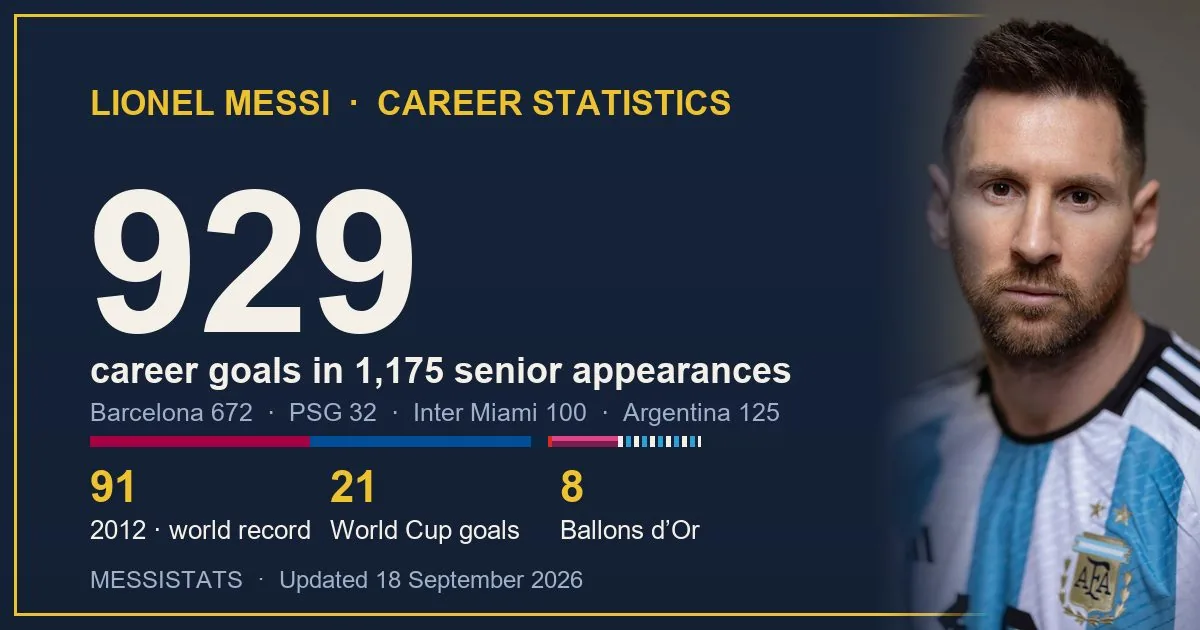
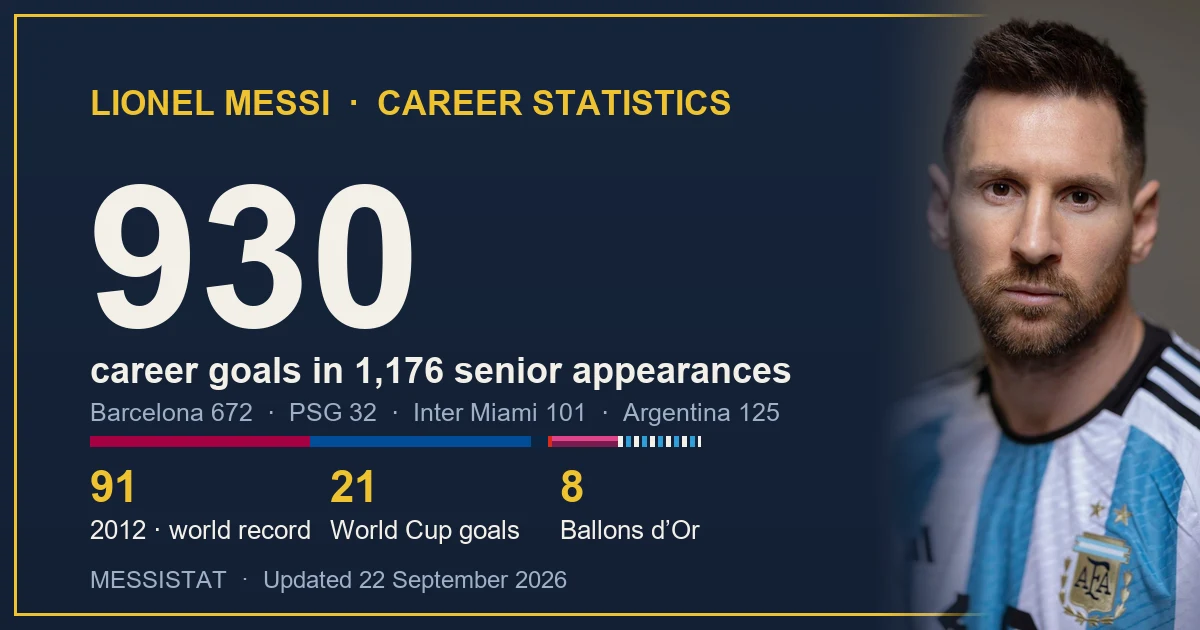
feat(og): make OG social preview image dynamically auto-update with 930 goals across build and CI pipelines

diff --git a/index.html b/index.html
@@ -80,18 +80,18 @@
 <script type="application/ld+json">
 {"@context":"https://schema.org","@graph":[
 {"@type":"WebSite","@id":"https://www.messistat.com/#website","name":"MessiStat","alternateName":["Messi Stats","Messi Stat","Lionel Messi Stats","messistat.com","MessiStats"],"url":"https://www.messistat.com/","inLanguage":"en","description":"The definitive Lionel Messi career statistics database: 930 goals, 385+ assists in 1,176 senior games, 46 trophies, 8 Ballons d'Or.","publisher":{"@id":"https://www.messistat.com/#org"}},
-{"@type":"SportsPerson","@id":"https://www.messistat.com/#messi","name":"Lionel Messi","alternateName":"Lionel Andrés Messi","description":"Argentine footballer with 930 goals in 1,176 senior appearances for club and country (672 Barcelona, 32 PSG, 100 Inter Miami, 125 Argentina), 46 team trophies and a record 8 Ballons d'Or (figures as of 18 September 2026).","nationality":"Argentina","birthDate":"1987-06-24","birthPlace":{"@type":"Place","name":"Rosario, Argentina"},"sport":"Soccer","sameAs":["https://www.wikidata.org/wiki/Q615","https://messi.com","https://en.wikipedia.org/wiki/Lionel_Messi","https://www.instagram.com/leomessi","https://www.facebook.com/leomessi","https://www.intermiamicf.com/players/lionel-messi","https://www.transfermarkt.com/lionel-messi/profil/spieler/28003"],"url":"https://www.messistat.com/en","image":"https://www.messistat.com/img/og-messi.jpg","mainEntityOfPage":{"@id":"https://www.messistat.com/en#webpage"},"award":["Ballon d'Or 2009","Ballon d'Or 2010","Ballon d'Or 2011","Ballon d'Or 2012","Ballon d'Or 2015","Ballon d'Or 2019","Ballon d'Or 2021","Ballon d'Or 2023","FIFA World Cup 2022"]},
+{"@type":"SportsPerson","@id":"https://www.messistat.com/#messi","name":"Lionel Messi","alternateName":"Lionel Andrés Messi","description":"Argentine footballer with 930 goals in 1,176 senior appearances for club and country (672 Barcelona, 32 PSG, 101 Inter Miami, 125 Argentina), 46 team trophies and a record 8 Ballons d'Or (figures as of 22 September 2026).","nationality":"Argentina","birthDate":"1987-06-24","birthPlace":{"@type":"Place","name":"Rosario, Argentina"},"sport":"Soccer","sameAs":["https://www.wikidata.org/wiki/Q615","https://messi.com","https://en.wikipedia.org/wiki/Lionel_Messi","https://www.instagram.com/leomessi","https://www.facebook.com/leomessi","https://www.intermiamicf.com/players/lionel-messi","https://www.transfermarkt.com/lionel-messi/profil/spieler/28003"],"url":"https://www.messistat.com/en","image":"https://www.messistat.com/img/og-messi.jpg","mainEntityOfPage":{"@id":"https://www.messistat.com/en#webpage"},"award":["Ballon d'Or 2009","Ballon d'Or 2010","Ballon d'Or 2011","Ballon d'Or 2012","Ballon d'Or 2015","Ballon d'Or 2019","Ballon d'Or 2021","Ballon d'Or 2023","FIFA World Cup 2022"]},
 {"@type":"Organization","@id":"https://www.messistat.com/#org","name":"MessiStat","alternateName":["messistat.com","MessiStats"],"url":"https://www.messistat.com/","logo":{"@type":"ImageObject","url":"https://www.messistat.com/img/logo.png","width":512,"height":512},"image":"https://www.messistat.com/img/logo.png"},
-{"@type":"WebPage","@id":"https://www.messistat.com/en#webpage","url":"https://www.messistat.com/en","name":"Messi Stats | MessiStat","description":"Lionel Messi stats: 930 career goals, 385+ assists in 1,176 senior games (Barcelona, PSG, Inter Miami & Argentina). 46 trophies, 8 Ballons d'Or, free kicks, hat-tricks & live 2026 tracker.","dateModified":"2026-09-21","inLanguage":"en","publisher":{"@id":"https://www.messistat.com/#org"},"speakable":{"@type":"SpeakableSpecification","cssSelector":["#messi-total-goals","#messi-goal-today-status","#kpis","#bday-hero","#faq","#on-this-day"]},"mainEntity":{"@id":"https://www.messistat.com/#messi"}},
-{"@type":"Dataset","@id":"https://www.messistat.com/#dataset-total-goals","name":"Lionel Messi Total Career Goals Official Dataset","description":"Primary, match-verified statistical record of Lionel Messi's 930 career goals and 1,176 senior appearances across FC Barcelona, Argentina, Paris Saint-Germain, and Inter Miami CF.","url":"https://www.messistat.com/en","creator":{"@id":"https://www.messistat.com/#org"},"dateModified":"2026-09-18","temporalCoverage":"2004-10-16/2026-09-18","keywords":["messi stat","messi stats","lionel messi stats","messi goal today","did messi score today","messi goals today","messi career stats","messi total goals","lionel messi career goals","how many goals has messi scored","messi all time goals","messi vs ronaldo goals","messi assists","messi records"],"variableMeasured":["Goals","Appearances","Assists","Hat-tricks","Free kicks","Penalties"]},
+{"@type":"WebPage","@id":"https://www.messistat.com/en#webpage","url":"https://www.messistat.com/en","name":"Messi Stats | MessiStat","description":"Lionel Messi stats: 930 career goals, 385+ assists in 1,176 senior games (Barcelona, PSG, Inter Miami & Argentina). 46 trophies, 8 Ballons d'Or, free kicks, hat-tricks & live 2026 tracker.","dateModified":"2026-09-22","inLanguage":"en","publisher":{"@id":"https://www.messistat.com/#org"},"speakable":{"@type":"SpeakableSpecification","cssSelector":["#messi-total-goals","#messi-goal-today-status","#kpis","#bday-hero","#faq","#on-this-day"]},"mainEntity":{"@id":"https://www.messistat.com/#messi"}},
+{"@type":"Dataset","@id":"https://www.messistat.com/#dataset-total-goals","name":"Lionel Messi Total Career Goals Official Dataset","description":"Primary, match-verified statistical record of Lionel Messi's 930 career goals and 1,176 senior appearances across FC Barcelona, Argentina, Paris Saint-Germain, and Inter Miami CF.","url":"https://www.messistat.com/en","creator":{"@id":"https://www.messistat.com/#org"},"dateModified":"2026-09-22","temporalCoverage":"2004-10-16/2026-09-22","keywords":["messi stat","messi stats","lionel messi stats","messi goal today","did messi score today","messi goals today","messi career stats","messi total goals","lionel messi career goals","how many goals has messi scored","messi all time goals","messi vs ronaldo goals","messi assists","messi records"],"variableMeasured":["Goals","Appearances","Assists","Hat-tricks","Free kicks","Penalties"]},
 {"@type":"FAQPage","@id":"https://www.messistat.com/en#faq","mainEntity":[
-{"@type":"Question","name":"What are Lionel Messi's career stats?","acceptedAnswer":{"@type":"Answer","text":"Across his senior career (2004–2026), Lionel Messi's stats stand at 930 official goals and 385+ assists in 1,176 matches (0.79 goals per game). His breakdown includes 672 goals for FC Barcelona, 125 for Argentina, 100 for Inter Miami CF, and 32 for PSG, alongside an all-time record 46 team trophies and 8 Ballons d'Or."}},
-{"@type":"Question","name":"Did Lionel Messi score today?","acceptedAnswer":{"@type":"Answer","text":"In his most recent official match on 20 September 2026, Lionel Messi scored Goal #930 (his 100th for Inter Miami) with a 12th-minute header in a 2–0 win vs San Diego FC in the MLS Regular Season. Check our live matchday tracker on /en/latest-goal for real-time goal and score updates whenever Inter Miami or Argentina plays."}},
+{"@type":"Question","name":"What are Lionel Messi's career stats?","acceptedAnswer":{"@type":"Answer","text":"Across his senior career (2004–2026), Lionel Messi's stats stand at 930 official goals and 385+ assists in 1,176 matches (0.79 goals per game). His breakdown includes 672 goals for FC Barcelona, 125 for Argentina, 101 for Inter Miami CF, and 32 for PSG, alongside an all-time record 46 team trophies and 8 Ballons d'Or."}},
+{"@type":"Question","name":"Did Lionel Messi score today?","acceptedAnswer":{"@type":"Answer","text":"In his most recent official match on 20 September 2026, Lionel Messi scored Goal #930 (his 101st for Inter Miami) with a 24th-minute direct free kick in a 2–2 draw vs San Diego FC in the MLS Regular Season. Check our live matchday tracker on /en/latest-goal for real-time goal and score updates whenever Inter Miami or Argentina plays."}},
 
-{"@type":"Question","name":"How many total career goals has Lionel Messi scored?","acceptedAnswer":{"@type":"Answer","text":"As of September 2026, Lionel Messi has scored 930 official senior career goals in 1,176 matches (0.79 goals per game). His breakdown includes 672 goals for FC Barcelona, 125 for Argentina, 100 for Inter Miami CF, and 32 for Paris Saint-Germain."}},
+{"@type":"Question","name":"How many total career goals has Lionel Messi scored?","acceptedAnswer":{"@type":"Answer","text":"As of September 2026, Lionel Messi has scored 930 official senior career goals in 1,176 matches (0.79 goals per game). His breakdown includes 672 goals for FC Barcelona, 125 for Argentina, 101 for Inter Miami CF, and 32 for Paris Saint-Germain."}},
 {"@type":"Question","name":"How many career assists does Lionel Messi have?","acceptedAnswer":{"@type":"Answer","text":"Lionel Messi has recorded over 385 official senior career assists (over 300 for FC Barcelona, 56+ for Argentina, 35+ for PSG and Inter Miami), making him the all-time assist leader in modern football history."}},
 {"@type":"Question","name":"Who has better all-time stats, Messi or Ronaldo?","acceptedAnswer":{"@type":"Answer","text":"Cristiano Ronaldo holds the all-time goalscoring record with 979 goals and 261 assists in 1,337 appearances (0.73 goals per game). Lionel Messi has scored 930 goals and 385+ assists in 1,176 appearances (0.79 goals per game, 1.12 goal contributions per game). Messi reached 930 goals in 161 fewer matches, has won 46 team trophies to Ronaldo's 35, and holds 8 Ballons d'Or compared to Ronaldo's 5."}},
-{"@type":"Question","name":"What is Messi's career goal breakdown by team?","acceptedAnswer":{"@type":"Answer","text":"Messi has scored 672 goals in 778 games for FC Barcelona, 32 goals in 75 games for Paris Saint-Germain, 100 goals in 118 games for Inter Miami, and 125 goals in 204 caps for Argentina."}},
+{"@type":"Question","name":"What is Messi's career goal breakdown by team?","acceptedAnswer":{"@type":"Answer","text":"Messi has scored 672 goals in 778 games for FC Barcelona, 32 goals in 75 games for Paris Saint-Germain, 101 goals in 119 games for Inter Miami, and 125 goals in 207 caps for Argentina."}},
 {"@type":"Question","name":"How many direct free kick goals has Messi scored?","acceptedAnswer":{"@type":"Answer","text":"Lionel Messi has scored 67 direct free-kick goals in senior football (50 for Barcelona, 11 for Argentina, 3 for Inter Miami, and 2 for PSG), ranking among the top five free-kick scorers in football history."}},
 {"@type":"Question","name":"How many hat-tricks has Lionel Messi scored?","acceptedAnswer":{"@type":"Answer","text":"Lionel Messi has scored 59 career hat-tricks (48 for Barcelona, 10 for Argentina, 1 for Inter Miami). 42 of his hat-tricks came in league and Champions League matches, and 6 were 4-goal or 5-goal games."}},
 {"@type":"Question","name":"How many penalty goals has Messi scored?","acceptedAnswer":{"@type":"Answer","text":"Messi has scored 111 penalties from 142 attempts across his senior club and international career (approximately 78% conversion rate)."}},
